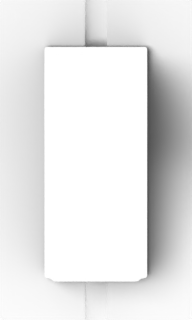
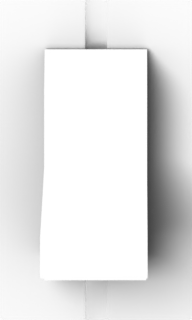
fix(panel): drawbar cap profile measured from the purchased model

diff --git a/assets/blender/parts_cap.py b/assets/blender/parts_cap.py
@@ -10,29 +10,33 @@ from __future__ import annotations
 import bpy
 from proof_geom import box, loft
 
-# Shape EMPIRICAL, measured on the owner's photo of a loose cap (2026-11-13, oblique view,
-# lengths scaled by the 113 px cap width at the block top, verticals by the block's front
-# corner edge; about +/-15 % from perspective). One part: base lip behind a tall rear block,
-# block front face sloping forward onto a long full-width nose (rounded join), nose top
-# chamfered at the front onto an upright front wall. Plan size EMPIRICAL from the reference
-# (100 x 231 px = 0.78 x 1.79 u at the base). Black and white caps share this geometry.
+# Shape EMPIRICAL, measured on the owner's purchased 3D model of the instrument (D17; the
+# model stays in .reference/, never committed): one drawbar cap mesh, projected onto the
+# panel plane and scaled so its width is CAP_W (scratch command recorded in
+# docs/research/panel-blender-proof.md, eighth review). Mesh sampling error about 0.02 u.
+# Side profile as (distance from the nose tip, top height), nose tip first: chamfer to the
+# tip, flat nose, block front slope, block top, block back slope, rear ledge. The model's
+# stray 4-vertex quads near the tip are not part of the cap and are dropped.
 CAP_W = 0.80
-CAP_BACK, CAP_FRONT = 0.90, -0.89
-# Profile EMPIRICAL from the owner's side photo (2026-11-13, white cap, 342 px base length =
-# 1.79 u, 0.0052 u/px, about +/-10 % from the low camera); width taper and foot flare from
-# the owner's rear photo of three caps.
-CAP_HT, CAP_HN = 1.00, 0.47  # block 215 px, nose 100 px tall
-BLOCK_TOP_FRONT = 0.25  # block top front edge at 217 px from the nose tip
-BLOCK_FRONT = 0.04  # block front face meets the nose at 177 px: steep forward slope
-NOSE_TOP_FRONT = -0.66  # flat nose top ends at 44 px, then the chamfer
-NOSE_FRONT_H = 0.10  # short upright nose front wall under the chamfer
-LIP_L, LIP_H = 0.07, 0.20  # base step behind the block: 15 px out, 45 px tall
-CAP_TAPER = 0.20  # rear photo: block top about 0.8 of its base width
-FLARE_H = 0.14  # rear photo: walls flare out over the bottom ~0.14 u (concave foot)
-STEP = 0.04  # ASSUMED: run of the near-vertical back wall, so the bevel is not clamped
-CAP_BEVEL = 0.12  # EMPIRICAL: reference cap corners read about 8 px rounded at 2x
+CAP_PROFILE = (
+    (0.00, 0.02),
+    (0.20, 0.36),
+    (0.79, 0.36),
+    (0.84, 0.42),
+    (0.99, 1.03),
+    (1.24, 1.04),
+    (1.30, 0.95),
+    (1.37, 0.40),
+    (1.40, 0.36),
+    (1.587, 0.36),
+)
+CAP_LEN_SCALE = 1.03  # EMPIRICAL: silhouette fit against the reference (model 1.587 u long)
+CAP_FRONT = -0.878  # nose tip, 0.06 u toward the back: the leaned render then fits the reference
+CAP_TAPER = 0.03  # model: top of the block 0.78 against a 0.80 base, walls upright
+CAP_BEVEL = 0.05  # model: corner radius about 0.05 u
+CAP_FLIP = True  # model orientation, nose away from the player (silhouette IoU 0.884 vs 0.868)
 CAP_LIFT = 0.03  # cap floats above the plate so the slot shows under it
-FOOT_WALL = 0.06  # ASSUMED: upright strip at the foot of every wall
+FOOT_WALL = 0.03  # ASSUMED: upright strip at the foot of every wall
 # Layer-fader cap EMPIRICAL from its photo: a frustum, top smaller than the base on all sides,
 # rounded edges. Base 96 x 74 reference px.
 LAYER_W, LAYER_L, LAYER_H = 0.74, 0.61, 0.36
@@ -42,42 +46,28 @@ LAYER_BEVEL = 0.07
 SLOT_W, SLOT_LEN, SLOT_DEPTH, PLATE_T = 0.17, 3.4, 0.16, 0.2
 
 
-def _section(y, z, top_x, left=-CAP_W / 2):
-    """Cross-section at y: bottom from `left` to the right edge, top edge between `top_x`."""
+def _section(y, z, top_x):
+    """Cross-section at y: full-width bottom, short upright foot, top edge between `top_x`."""
     hb, zl = CAP_W / 2, CAP_LIFT
-    v = min(FOOT_WALL, z * 0.5)  # short upright wall: every bottom edge is 90 deg, so the
-    # bevel shrinks the outline the same everywhere (sloped walls would bevel deeper)
-    f = min(FLARE_H, z * 0.6)  # flared foot: steep inward kink, then the tapered wall
-    fx = hb - (hb - top_x[1]) * 0.5 * f / max(z, 1e-6) - 0.03 * (f / FLARE_H)
+    v = min(FOOT_WALL, z * 0.5)  # every bottom edge is 90 deg, so the bevel is even
     return [
-        (left, y, zl),
+        (-hb, y, zl),
         (hb, y, zl),
         (hb, y, zl + v),
-        (fx, y, zl + f),
         (top_x[1], y, zl + z),
         (top_x[0], y, zl + z),
-        (-fx, y, zl + f),
-        (left, y, zl + v),
+        (-hb, y, zl + v),
     ]
 
 
 def fader_cap(m, key):
-    """Drawbar cap, one loft from back to front: base lip, tall rear block whose front face
-    slopes onto the full-width nose, chamfered nose top, upright front wall (the end cap of
-    the loft). Smooth shading plus an unclamped bevel round every edge (photo)."""
-    ht, hn = CAP_HT, CAP_HN
+    """Drawbar cap, one loft along CAP_PROFILE from the nose tip (player side) to the back."""
     top = (-CAP_W / 2 * (1 - CAP_TAPER), CAP_W / 2 * (1 - CAP_TAPER))
-    secs = [
-        (CAP_BACK, LIP_H),
-        (CAP_BACK - LIP_L, LIP_H),
-        (CAP_BACK - LIP_L - STEP, ht),
-        (BLOCK_TOP_FRONT, ht),
-        (BLOCK_FRONT, hn),
-        (NOSE_TOP_FRONT, hn),
-        (CAP_FRONT, NOSE_FRONT_H),
-    ]
-    rings = [_section(y, z, top) for y, z in secs]
-    return [loft("cap_body", rings, m[key], smooth=True, bevel=CAP_BEVEL, segments=8)]
+    sign = -1 if CAP_FLIP else 1
+    rings = [_section(sign * (CAP_FRONT + d * CAP_LEN_SCALE), z, top) for d, z in CAP_PROFILE]
+    if CAP_FLIP:
+        rings.reverse()
+    return [loft("cap_body", rings, m[key], smooth=True, bevel=CAP_BEVEL, segments=6)]
 
 
 def layer_cap(m, key):

diff --git a/docs/research/panel-blender-proof.md b/docs/research/panel-blender-proof.md
@@ -170,3 +170,19 @@ Still different:
 - Button down and lit states; LED lenses; drawbar variants; keys.
 - Reduce filmstrip size (palette quantisation, 32 frames for small knobs).
 - egui side-by-side at 1x and 2x once B4 exists; `xtask bake-panel` replaces `tools/panel_assets.py` packing.
+
+## Eighth review: drawbar cap profile from the purchased model (2026-11-13)
+
+Checked: 2026-11-13. Sources: the owner's purchased 3D model (`.reference/HIGH_POLY_KEYBOARD_STAGE_PIANO`,
+never committed), the owner's cap photos. Question: why did caps built from photos not look like the
+real part?
+
+Method: load the glTF in Blender, pick the one drawbar cap (two mesh pieces near x=-0.362, y=1.740,
+z=0.038; the four-vertex stray quads next to it are not part of the cap), project its vertices onto
+the panel plane, scale so the width is 0.80 u, and read the side silhouette. Result (`CAP_PROFILE` in
+`assets/blender/parts_cap.py`): 1.587 u long, block 1.04 u tall, nose 0.36 u, chamfer to the tip, flat
+rear ledge. Plan length stretched by 1.03 and moved 0.06 u back to fit the reference silhouette
+(IoU black 0.959, white 0.929, layer 0.943).
+
+Implications: photo-estimated shapes were off by up to 40 % in height; measure from the model.
+Follow-ups: rounder block edges (model radius about 0.05 u), per-cap lean check on the white cap.
